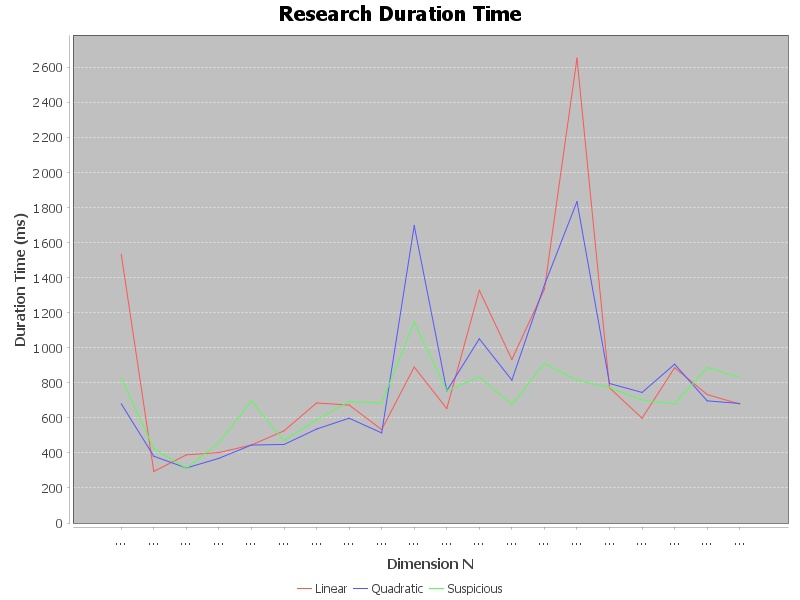
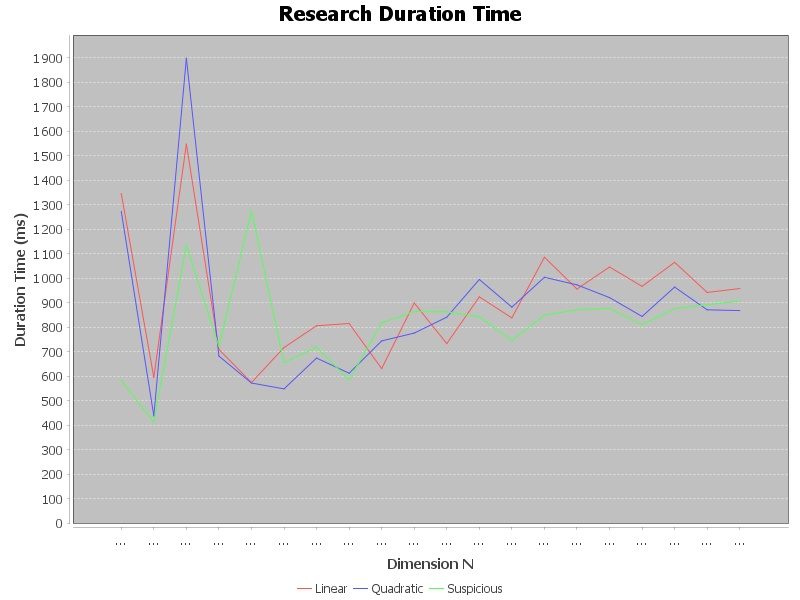
aaaaaaaaaaaaaaaa

diff --git a/src/main/java/ulb/algo2/Main.java b/src/main/java/ulb/algo2/Main.java
@@ -18,26 +18,48 @@ public class Main {
 
 
 	public static void main(String[] args) throws Throwable {
-
-		// Load the map
-		String filename="../algo2_projet/data/sh_statbel_statistical_sectors_31370_20220101.shp/sh_statbel_statistical_sectors_31370_20220101.shp";
-		File file = new File(filename);
-		if (!file.exists()) throw new RuntimeException("Shapefile does not exist.");
-		FileDataStore store = FileDataStoreFinder.getDataStore(file);
-		SimpleFeatureSource featureSource = store.getFeatureSource();
-
-		// Countries
-		SimpleFeatureCollection allFeatures = featureSource.getFeatures();
-
-		// Generate the research graph
-		ResearchGraphGenerator researchGraphGenerator = new ResearchGraphGenerator("belgium", allFeatures);
+		// Generate the research graph for the belgium map
+		ResearchGraphGenerator researchGraphGenerator = new ResearchGraphGenerator("belgium", getBelgiumFeatures());
 		researchGraphGenerator.generate(20);
 		researchGraphGenerator.saveGraph();
 
+		// Generate the research graph for the france map
+		researchGraphGenerator = new ResearchGraphGenerator("france", getFranceFeatures());
+		researchGraphGenerator.generate(20);
+		researchGraphGenerator.saveGraph();
 
+		// Generate the research graph for the world map
+		researchGraphGenerator = new ResearchGraphGenerator("world", getWorldFeatures());
+		researchGraphGenerator.generate(20);
+		researchGraphGenerator.saveGraph();
 
 	}
 
+
+
+	private static SimpleFeatureCollection getBelgiumFeatures() throws Throwable {
+		String filename="../algo2_projet/data/sh_statbel_statistical_sectors_31370_20220101.shp/sh_statbel_statistical_sectors_31370_20220101.shp";
+		return getFeatures(filename);
+	}
+
+	private static SimpleFeatureCollection getFranceFeatures() throws Throwable {
+		String filename="../algo2_projet/data/commaunes-20190101-shp/communes-20190101.shp";
+		return getFeatures(filename);
+	}
+
+	private static SimpleFeatureCollection getWorldFeatures() throws Throwable {
+		String filename="../algo2_projet/data/WB_countries_Admin0_10m/WB_countries_Admin0_10m.shp";
+		return getFeatures(filename);
+	}
+
+
+	private static SimpleFeatureCollection getFeatures(String fileName) throws Throwable {
+		File file = new File(fileName);
+		if (!file.exists()) throw new RuntimeException("Shapefile does not exist.");
+		FileDataStore store = FileDataStoreFinder.getDataStore(file);
+		SimpleFeatureSource featureSource = store.getFeatureSource();
+		return featureSource.getFeatures();
+	}
 
 
 

diff --git a/src/main/java/ulb/algo2/SinglePoint.java b/src/main/java/ulb/algo2/SinglePoint.java
@@ -52,11 +52,12 @@ public class SinglePoint {
      */
     public static void main(String[] args) throws Exception {
         // display a data store file chooser dialog for shapefiles
-        String filename="../algo2_projet/data/sh_statbel_statistical_sectors_31370_20220101.shp/sh_statbel_statistical_sectors_31370_20220101.shp";
 
-        //String filename="../algo2_projet/data/WB_countries_Admin0_10m/WB_countries_Admin0_10m.shp";
-        
-        //String yoyoyooyyooyyooyyooy20220101-shp/communes-20220101.shp";
+	    //String filename="../algo2_projet/data/sh_statbel_statistical_sectors_31370_20220101.shp/sh_statbel_statistical_sectors_31370_20220101.shp";
+
+	    String filename="../algo2_projet/data/WB_countries_Admin0_10m/WB_countries_Admin0_10m.shp";
+
+	    //String filename="../algo2_projet/data/communes-20220101-shp/communes-20220101.shp";
         
         File file = new File(filename);
         if (!file.exists())
@@ -85,11 +86,11 @@ public class SinglePoint {
         //Point p = gb.point(-70.9,-33.4);// Santiago
         //Point p = gb.point(169.2, -52.5);//NZ
         //Point p = gb.point(172.97365198326708, 1.8869725782923172);
-	    Point p = gb.point(147306.96, 166818.79); // maison de kevin (actuelemenet)
+	    //Point p = gb.point(147306.96, 166818.79); // maison de kevin (actuelemenet)
 		//Point p = gb.point(151515.33, 167600.79); // maison de kevin (future)
 	    //Point p = gb.point(150024, 167125);
-        //Point p = gb.point(r.nextInt((int) global_bounds.getMinX(), (int) global_bounds.getMaxX()),
-        //a				r.nextInt((int) global_bounds.getMinY(), (int) global_bounds.getMaxY()));
+        Point p = gb.point(r.nextInt((int) global_bounds.getMinX(), (int) global_bounds.getMaxX()),
+        				r.nextInt((int) global_bounds.getMinY(), (int) global_bounds.getMaxY()));
 
 	    // le pays ciblé par le point
         SimpleFeature target=null;

diff --git a/src/main/java/ulb/algo2/ResearchGraphGenerator.java b/src/main/java/ulb/algo2/ResearchGraphGenerator.java
@@ -4,6 +4,7 @@ import java.util.Random;
 
 import org.geotools.data.simple.SimpleFeatureCollection;
 import org.geotools.geometry.jts.GeometryBuilder;
+import org.geotools.geometry.jts.ReferencedEnvelope;
 import org.locationtech.jts.geom.Point;
 
 import ulb.algo2.rtrees.*;
@@ -14,6 +15,8 @@ public class ResearchGraphGenerator {
 	String MapName;
 
 	int maxN;
+
+	ReferencedEnvelope bounds;
 	int nbPoints = 5000;
 	Point[] points = new Point[nbPoints];
 	SimpleFeatureCollection features;
@@ -24,6 +27,7 @@ public class ResearchGraphGenerator {
 	public ResearchGraphGenerator(String mapName, SimpleFeatureCollection features) {
 		this.MapName = mapName;
 		this.features = features;
+		this.bounds = features.getBounds();
 		this.setMaxN();
 		this.setPoints();
 		this.graphGenerator = new GraphGenerator("Research Duration Time", prefix + mapName + ".png");
@@ -81,11 +85,10 @@ public class ResearchGraphGenerator {
 	}
 
 	private void setPoints() {
-		final double min = 20000;
-		final double max = 300000;
-		Random random = new Random();
+		Random r = new Random();
 		for (int i = 0; i < nbPoints; i++) {
-			points[i] = new GeometryBuilder().point(min + random.nextDouble() * (max - min), min + random.nextDouble() * (max - min));
+			points[i] = new GeometryBuilder().point(r.nextInt((int) bounds.getMinX(), (int) bounds.getMaxX()),
+					r.nextInt((int) bounds.getMinY(), (int) bounds.getMaxY()));
 		}
 	}
 
